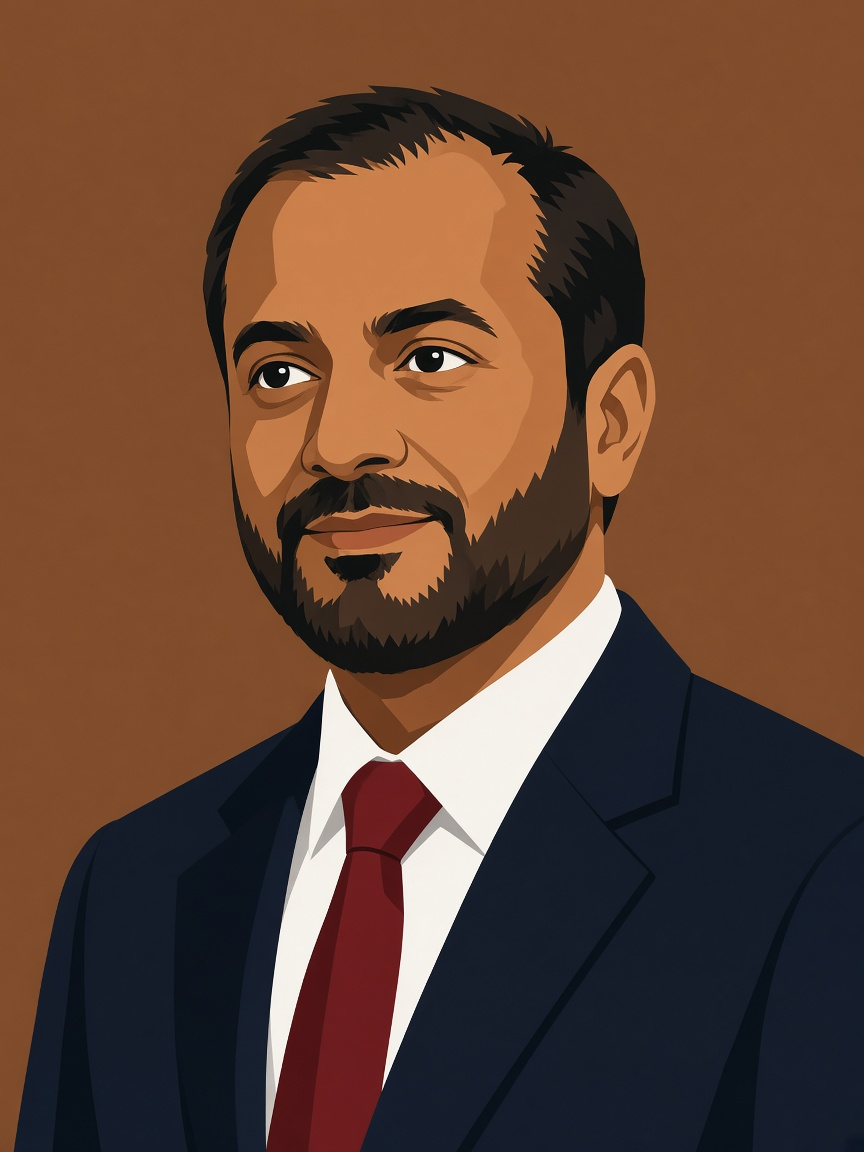
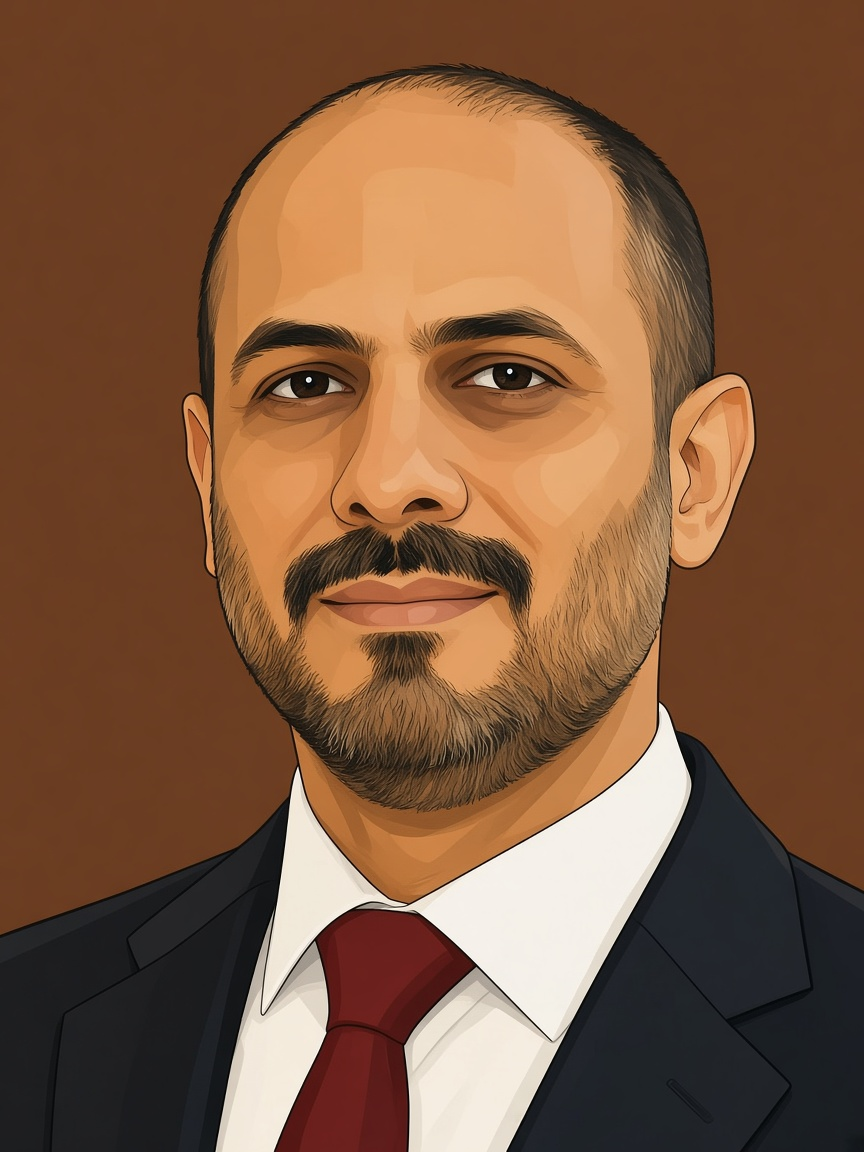
Thin three more portraits to match the Roland illustration.

diff --git a/roster-data.js b/roster-data.js
@@ -551,7 +551,7 @@ window.LECTURE_ROSTER = [
       }
     ],
     "joinCopy": "Work with Vivian Zayas on Personality science, Close relationships, Social cognition.",
-    "photo": "assets/portraits/vivian-zayas.jpg?v=5",
+    "photo": "assets/portraits/vivian-zayas.jpg?v=4",
     "template": false
   },
   {
@@ -611,7 +611,7 @@ window.LECTURE_ROSTER = [
       }
     ],
     "joinCopy": "Work with Katherine F. Smith on Planetary health, Biogeography, Environmental change.",
-    "photo": "assets/portraits/katherine-f-smith.jpg?v=3",
+    "photo": "assets/portraits/katherine-f-smith.jpg?v=4",
     "template": false
   },
   {
@@ -1714,7 +1714,7 @@ window.LECTURE_ROSTER = [
       }
     ],
     "joinCopy": "Work with Johannes Ruf on Financial mathematics, FinTech, Stochastic analysis.",
-    "photo": "assets/portraits/johannes-ruf.jpg?v=3",
+    "photo": "assets/portraits/johannes-ruf.jpg?v=4",
     "template": false
   },
   {
@@ -1854,7 +1854,7 @@ window.LECTURE_ROSTER = [
       }
     ],
     "joinCopy": "Work with Raghavendra Rau on Financial valuation, Corporate finance, Asset pricing.",
-    "photo": "assets/portraits/raghavendra-rau.jpg?v=3",
+    "photo": "assets/portraits/raghavendra-rau.jpg?v=4",
     "template": false
   },
   {
